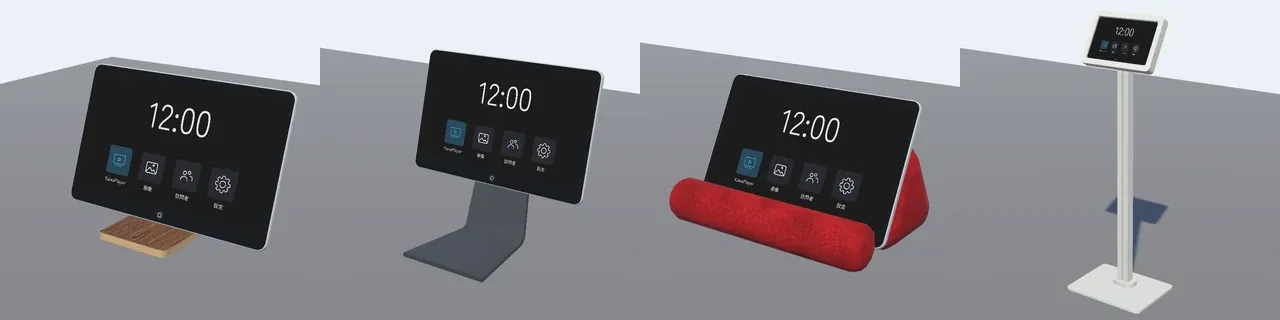
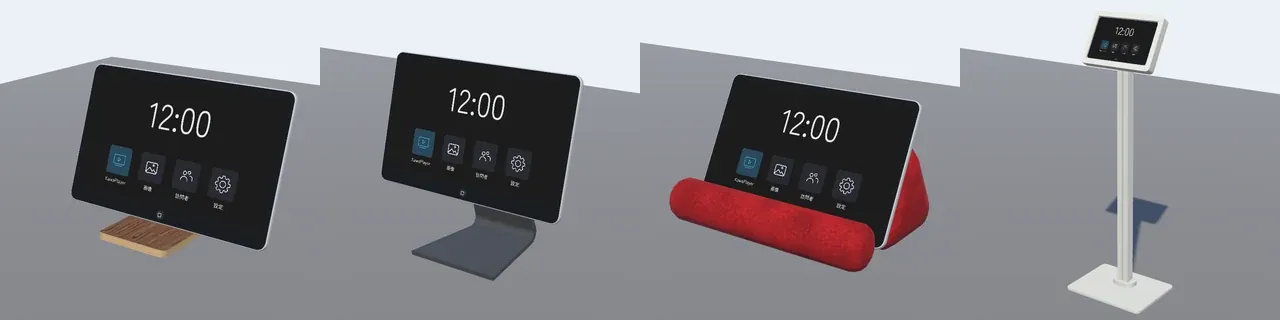
docs: the aluminium stand leaning over its foot, in the guide's pictures and CLAUDE.md (#349)

Changed region(s): [[0.2812, 0.1562, 0.5, 0.7812], [0.3125, 0.75, 0.4062, 0.875]]

diff --git a/CLAUDE.md b/CLAUDE.md
@@ -136,7 +136,7 @@ The screen turns with the tablet (issue #183). Five times a second `TabletScreen
 
 Its holder can resize the tablet, from the size it was made (30 cm wide) to 5 times that (issue #342). The tablet is AutoHold, so its holder's trigger is the pickup's Use (`OnPickupUseDown`, which reaches only the holder, the other hand pointing at the screen): while it is held, the holding hand's stick up or down (the right stick is `InputLookVertical`, the left `InputMoveVertical`; pushed all the way, it doubles the size in a second) changes the size, and on desktop the mouse wheel with the left button held (`Input.GetAxis("Mouse ScrollWheel")`, as Udon has no `mouseScrollDelta`). The player is immobilized while the trigger is held, as the left stick walks. VRChat moves a held pickup by its own transform, so `Body` keeps its scale: `TabletSize`, on `Body/Size`, scales Body's other children (the model, the canvas and the KawaPlayer app) and the centre and size of the collider the tablet is grabbed by, about a point that stays where it is: the point of the tablet nearest the holding hand, or its middle on desktop. It is the one script that writes the KawaPlayer app's place: `TabletScreen` works out how far the app turns over and hands it the angle (`TabletSize.TurnApp`), and the app is turned first and sized after, from its pose as made, so a turn and a resize in either order, or a size that comes in, leave its screen on the tablet (when `TabletScreen` wrote the app's place itself, a turn put it back where it was before the resize, #348 review F1). Splitting the size and the turn into a parent and a child was not taken, as it would move the app, and the UdonBehaviours under its `ScreenUI`, to a new place in the hierarchy of worlds already built. The size is shared when the place is: with a VRCObjectSync on `Body` (the inspector's "Sync its place and size for everyone", on in the prefab), `TabletSize` syncs it by hand from its own object, at most five times a second while it changes (`TabletPickup` shares its object with the VRCObjectSync, which allows no manual sync, and `TabletScreen` changes owner with each press); without one, each player's tablet keeps its own size, as it keeps its own place. Letting go keeps the size; going back to its place (`ReturnToSpawn`, from the idle timer or the return button) brings back 1.
 
-The tablet stands on a stand, its place to be put down (issue #349). The prefab's origin is the stand's bottom, so a creator sets it on a table or the floor. `Tablet/Stand` holds four designs, each a child with its model and material, a `Dock` where the tablet rests and a `ButtonPlace` for the stand's own return button (`Stand/Button`, a `TabletReturnButton` like the one that stands apart, round, with the reload icon, hidden behind the tablet while it is home): the bentwood (one sheet of bent plywood, an S seen from the side, the tablet leaning on its panel's top edge, in walnut, white oak, smoked walnut and black), the aluminium stand (`Magnet`: one sheet bent into a foot and a neck that ends in a hinge on a swivel behind the plate the tablet sticks to, in space grey, silver and black), the cushion (a wedge and a bolster, in red, grey, navy and beige) and the signage stand (`Floor`: a box with a rim on a grooved column, the screen at about 1.15 m, in white, black and silver), in the order the inspector offers them, those for a table first. The inspector names them by what they look like, アルミ (Aluminium) and サイネージ (Signage) for the last two: a magnet does nothing in a world, where every stand catches the tablet. The models are in `Assets/Models/TabletStand/`, built by the Blender scripts in its `Source~` (a few hundred triangles each), which also draw their textures: the bentwood's atlas (veneer above, the plywood's cut edge below) from free-to-use veneer photos graded to each finish (`make_textures.py`, given the folder of the photos), the cushion's fabric from noise, and small palettes for the metal ones (one per finish, the same cells in each: plain for the white signage and the space grey stand, black, silver); every material is `VRChat/Mobile/Standard Lite`. The tablet inspector (the tablet branch of `YamaPlayerSubControllerEditor`: Holding, Where it rests, Visitors App) switches the stand on and off and picks the design and colour (`TabletStandDesigns`: the chosen design on with the colour's material, the tablet's rest `TabletPickup._dock` and the button moved to it, the tablet set on it); without a stand, the return button that stands apart (`ReturnButton`) is offered again. At build and on Play, `TabletStandBuildProcess` puts the body on the rest, wherever the stand was moved, so the place the tablet starts at and goes back to is the stand's, VRCObjectSync's respawn point included, and tags EditorOnly the designs not chosen and, with a stand, the return button apart. A world keeps no component of ours beside the Udon ones, so the build and the inspector find the stand by its name. Let go by its holder, who owns it, within 30 cm of the rest, the tablet slides onto it in 0.25 s and back to its own size (`TabletPickup.OnDrop`, `_DockFrame`). The testing project keeps a scene that lays every design and colour out with its tablet, for review (`Assets/Scenes/TabletStandReview.unity`).
+The tablet stands on a stand, its place to be put down (issue #349). The prefab's origin is the stand's bottom, so a creator sets it on a table or the floor. `Tablet/Stand` holds four designs, each a child with its model and material, a `Dock` where the tablet rests and a `ButtonPlace` for the stand's own return button (`Stand/Button`, a `TabletReturnButton` like the one that stands apart, round, with the reload icon, hidden behind the tablet while it is home): the bentwood (one sheet of bent plywood, an S seen from the side, the tablet leaning on its panel's top edge, in walnut, white oak, smoked walnut and black), the aluminium stand (`Magnet`: one sheet bent into a foot running forwards and a neck coming back over it, leaning forwards so that the weight stands over the foot, which ends in a hinge on a swivel behind the plate the tablet sticks to, in space grey, silver and black), the cushion (a wedge and a bolster, in red, grey, navy and beige) and the signage stand (`Floor`: a box with a rim on a grooved column, the screen at about 1.15 m, in white, black and silver), in the order the inspector offers them, those for a table first. The inspector names them by what they look like, アルミ (Aluminium) and サイネージ (Signage) for the last two: a magnet does nothing in a world, where every stand catches the tablet. The models are in `Assets/Models/TabletStand/`, built by the Blender scripts in its `Source~` (a few hundred triangles each), which also draw their textures: the bentwood's atlas (veneer above, the plywood's cut edge below) from free-to-use veneer photos graded to each finish (`make_textures.py`, given the folder of the photos), the cushion's fabric from noise, and small palettes for the metal ones (one per finish, the same cells in each: plain for the white signage and the space grey stand, black, silver); every material is `VRChat/Mobile/Standard Lite`. The tablet inspector (the tablet branch of `YamaPlayerSubControllerEditor`: Holding, Where it rests, Visitors App) switches the stand on and off and picks the design and colour (`TabletStandDesigns`: the chosen design on with the colour's material, the tablet's rest `TabletPickup._dock` and the button moved to it, the tablet set on it); without a stand, the return button that stands apart (`ReturnButton`) is offered again. At build and on Play, `TabletStandBuildProcess` puts the body on the rest, wherever the stand was moved, so the place the tablet starts at and goes back to is the stand's, VRCObjectSync's respawn point included, and tags EditorOnly the designs not chosen and, with a stand, the return button apart. A world keeps no component of ours beside the Udon ones, so the build and the inspector find the stand by its name. Let go by its holder, who owns it, within 30 cm of the rest, the tablet slides onto it in 0.25 s and back to its own size (`TabletPickup.OnDrop`, `_DockFrame`). The testing project keeps a scene that lays every design and colour out with its tablet, for review (`Assets/Scenes/TabletStandReview.unity`).
 
 ### Editor Tools (`Editor/`)
 
